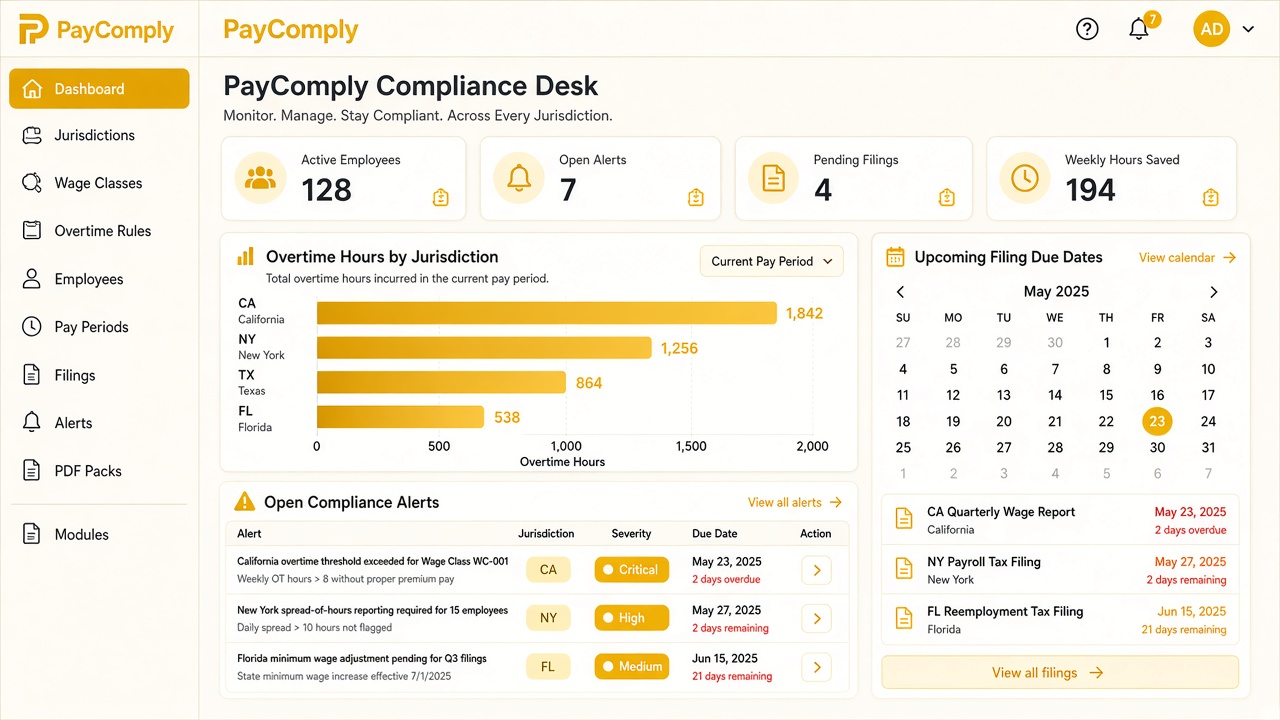
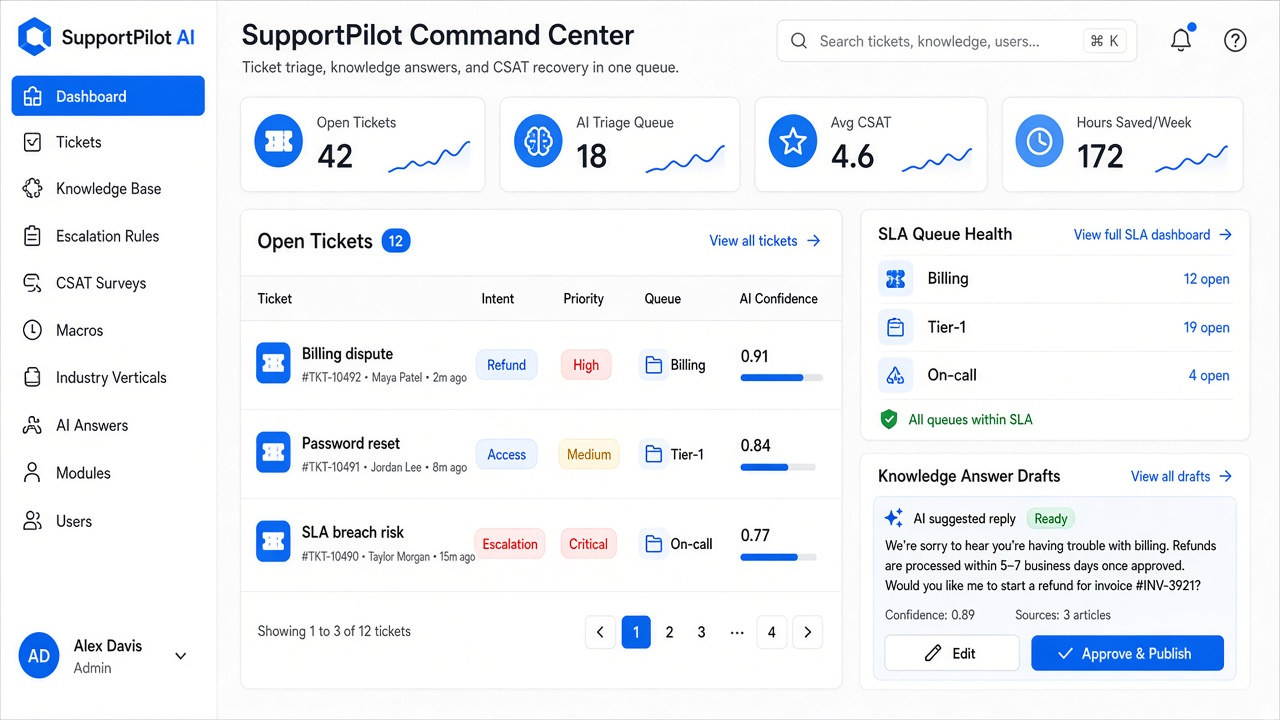
Polish SupportPilot screenshot and demo user docs.

diff --git a/README.md b/README.md
@@ -94,14 +94,6 @@ Password for all accounts: value of DEMO_PASSWORD in .env (default password).
 | Customer | client@supportpilot.test |
 | Demo | demo@supportpilot.test |
 
----|---|---|
-| Demo | demo@supportpilot.test | password |
-| Super Admin | superadmin@supportpilot.test | password |
-| Admin | admin@supportpilot.test | password |
-| Manager | manager@supportpilot.test | password |
-| Agent | agent@supportpilot.test | password |
-| Customer | customer@supportpilot.test | password |
-
 Admin panel: `/admin` · Marketing: `/` · Portal: `/portal`
 
 ---
